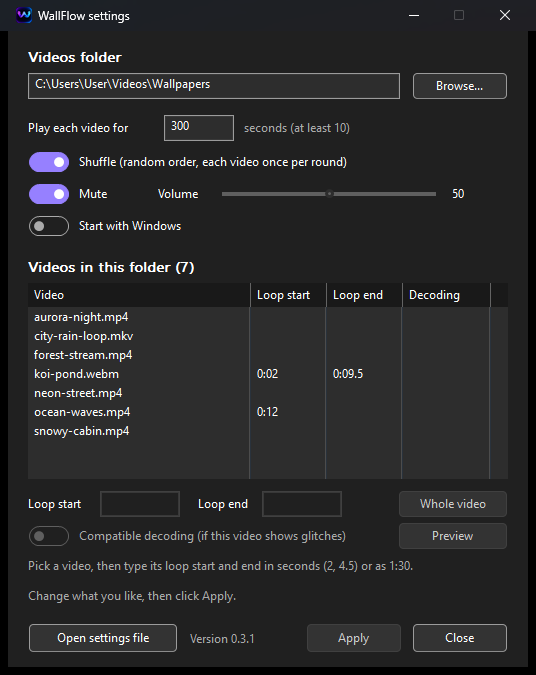
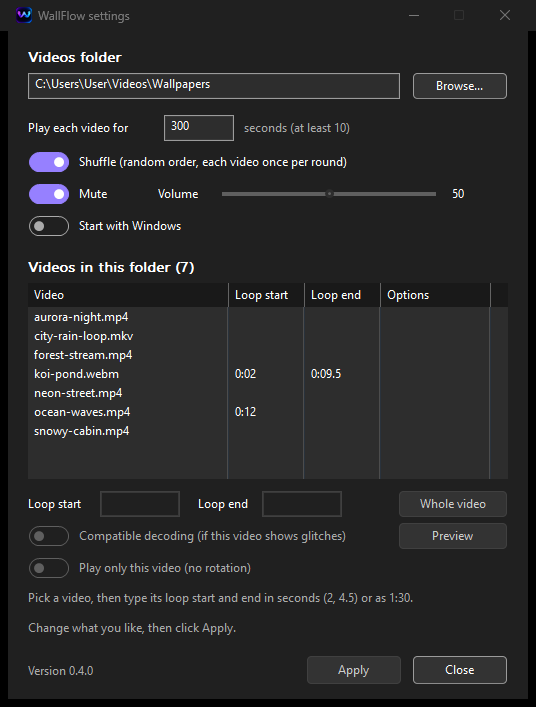
README: play only one video, live audio, slider; version 0.4.0

diff --git a/README.md b/README.md
@@ -26,6 +26,10 @@ Get the zip from the [latest release](https://github.com/Niranjen99/WallFlow/rel
 
 Pick a folder, set how many seconds each video plays, shuffle, mute or volume, and start with Windows. Pick a video in the list to give it its own loop: type its start and end in seconds (`2`, `4.5`) or as `1:30`. Nothing changes until you click **Apply** (or press Enter); a typo is shown in red and nothing is applied. Closing with changes not applied asks whether to apply them. Hover over the loop fields for a note on memory: a loop of 4 seconds or less keeps a second video player loaded all the time.
 
+Volume and mute are heard as soon as you change them (closing without Apply puts the old sound back). A click on the volume track jumps straight to that point.
+
+**Play only this video** loops the selected video forever: no rotation, no shuffle (both grey out). Turn it off, or delete that file from the folder, and the folder rotates again.
+
 **Preview** shows the selected video on the desktop right away, with the loop and decoding you set but have not applied yet. The folder rotation stops while you look; **Apply** or closing the window brings it back.
 
 **Compatible decoding** (per video): turn it on for a video that shows blocks of wrong colours. See [A driver bug: corrupted blocks at the bottom](#a-driver-bug-corrupted-blocks-at-the-bottom).
@@ -57,6 +61,7 @@ The first start creates `%APPDATA%\WallFlow\settings.json`. Save it and WallFlow
 | `shuffle` | Random order, each video once per round, never the same one twice in a row. | `false` |
 | `mute`, `volume` | Muted means the audio is not even decoded. Volume 0 to 100. | `true`, `50` |
 | `start_with_windows` | Start when you log in (current user only, no admin rights). | `false` |
+| `only_video` | File name of the one video to play, looping, with no rotation. Ignored if that file is not in the folder. | not set: rotate |
 | `videos` | Per-video settings by file name: loop `start`, `end` or both, as seconds (`90`) or text (`"1:30"`); `compatible_decoding` decodes the video with Vulkan instead of DirectX. | whole video, DirectX |
 | `lock_screen_picture` | Reserved for the lock screen feature (not active yet). | `false` |
 
@@ -154,6 +159,8 @@ Folder rotation uses the same swap, with the next video in the waiting player.
 - **Plain Win32, laid out in code.** No UI framework: the exe stays under 1 MB with no extra DLLs. Every position is written at 96 DPI and scaled with the monitor's DPI, and dragging the window to a monitor with other scaling lays it out again (`WM_DPICHANGED`).
 - **Light and dark.** The title bar uses the documented `DWMWA_USE_IMMERSIVE_DARK_MODE`. Buttons, text fields, the list and its scrollbars use the dark theme classes Windows ships for File Explorer (`DarkMode_Explorer`, `DarkMode_CFD`, `DarkMode_ItemsView`). Colours come from answering `WM_CTLCOLOR*`. A standard checkbox ignores the text colour in dark mode, so the switches are owner-drawn (`BS_OWNERDRAW`), and the volume slider is custom-drawn (`NM_CUSTOMDRAW`). A light/dark change arrives as `WM_SETTINGCHANGE` with `"ImmersiveColorSet"`, and the window repaints in the new theme.
 - **One path for every change.** The window keeps two copies of the settings: what WallFlow uses now, and what the window shows with your edits. Apply checks the fields and hands the edited copy to the app. The app saves it to settings.json and applies it through the same code as a hand edit, so a new loop or folder still switches seamlessly. The folder watcher then reports that write, but the file matches what is already applied, so nothing happens twice.
+- **Smooth switches.** GDI draws curves without anti-aliasing (each pixel is either in or out, so edges look stair-stepped), so the switches and the volume knob are drawn with GDI+ in `SmoothingModeAntiAlias`, which blends edge pixels with the background.
+- **The slider repaints fully.** A standard slider repaints only where its knob was and is. Because the track is coloured up to the knob, a jump left the old colour behind, so every change repaints the whole control.
 - **The logic is testable.** What a typed time means, when a loop is too short, and how an edit changes the settings live in `settings_form`, with no window, so they are unit tested.
 - **A bug found while testing.** Quitting from the tray while the folder picker was open left WallFlow running with no windows. The picker runs its own message loop, which swallowed the `WM_QUIT` that ends the main loop. Now quitting closes the picker (`IFileDialog::Close`), and the main loop also stops on a flag set when the controller window is destroyed, so a swallowed `WM_QUIT` can't leave it waiting forever.
 
@@ -236,6 +243,7 @@ Set `WALLFLOW_LOG` to a file path before starting WallFlow and it logs what it d
 - [x] Settings file applied live, audio settings, start with Windows, app icon, release zip
 - [x] Settings window (follows the Windows light/dark theme live)
 - [x] Preview a video before applying; per-video compatible decoding for GPU driver bugs
+- [x] Play only one video; live volume and mute
 - [ ] Lock screen picture that matches the wallpaper
 - [ ] Measured results: memory, CPU and GPU use, switch gap
 
